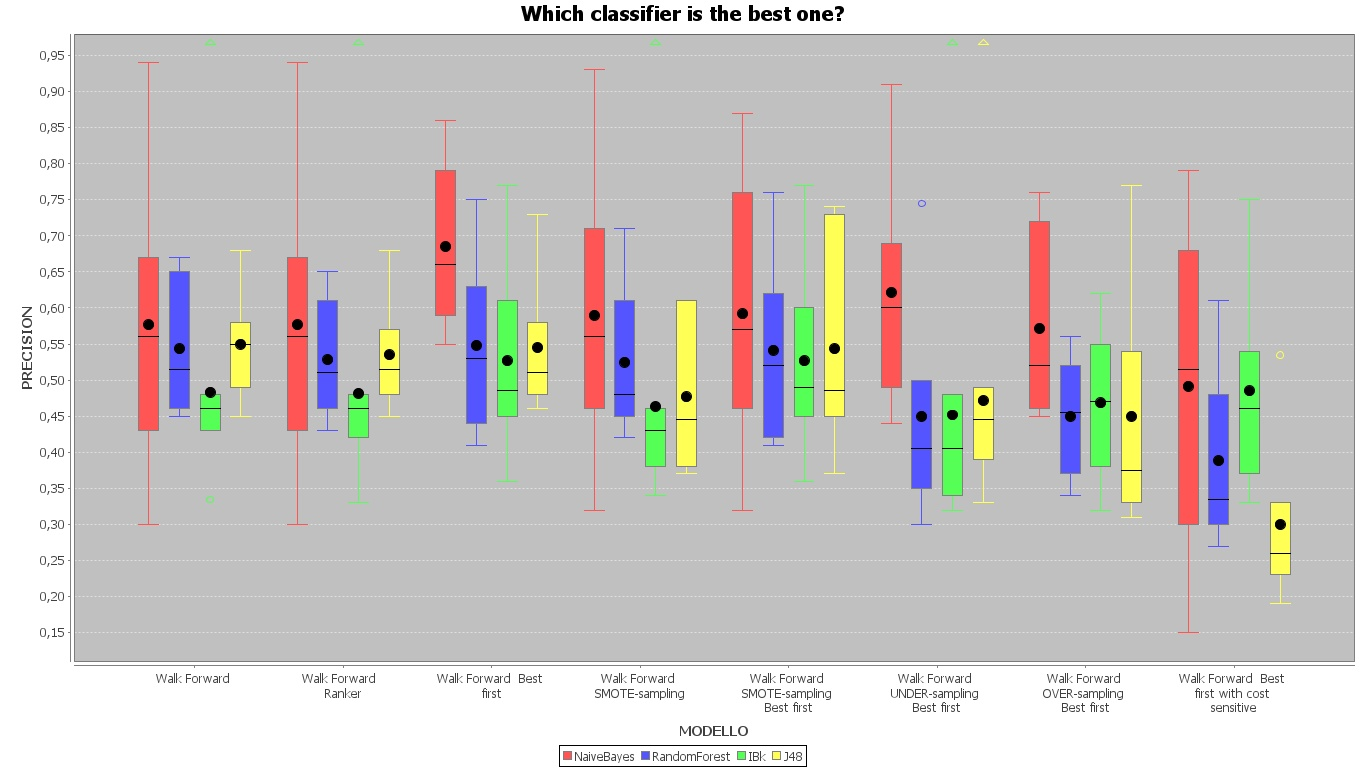
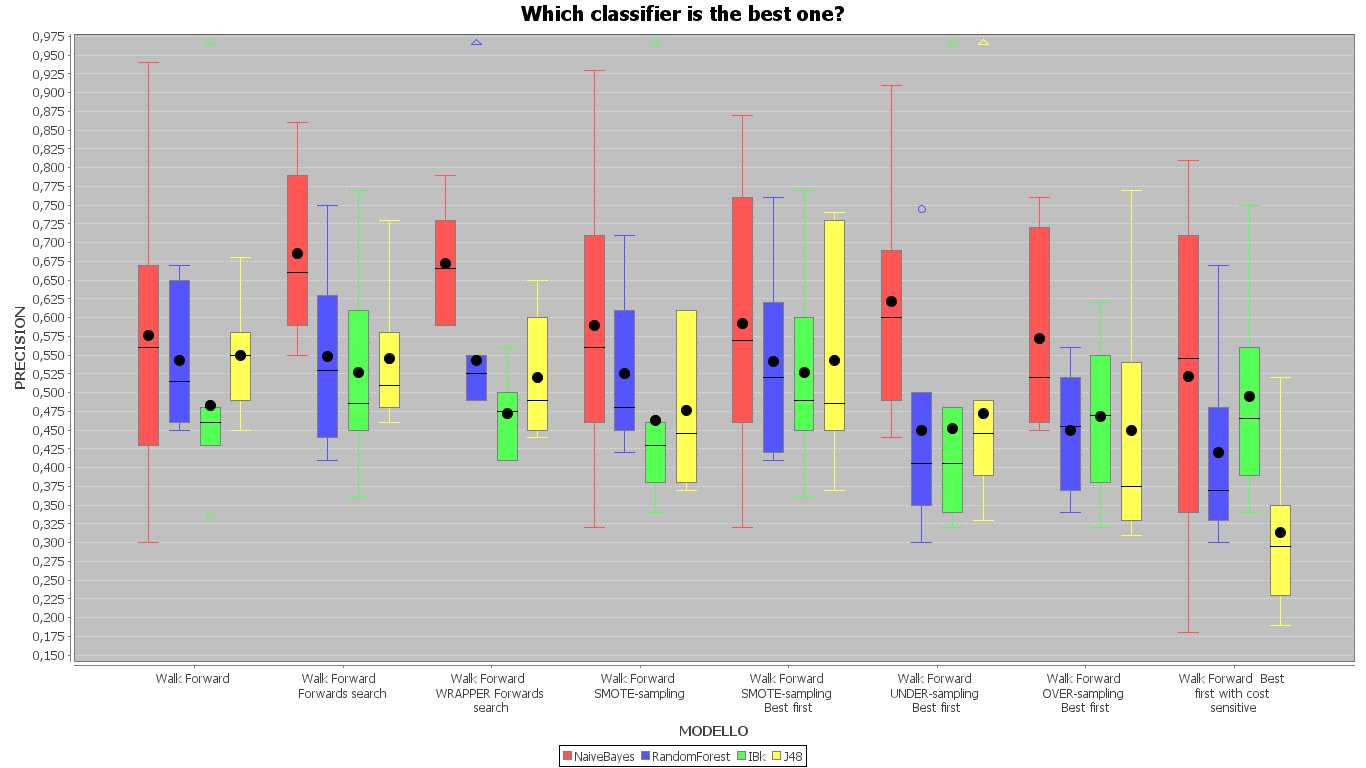
Added WRAPPER per forwards search

diff --git a/Deliverable2/src/main/java/org/learning/bookkeeperlearning/controller/FeatureSelectionDecorator.java b/Deliverable2/src/main/java/org/learning/bookkeeperlearning/controller/FeatureSelectionDecorator.java
@@ -24,7 +24,7 @@ public class FeatureSelectionDecorator extends Decorator {
     }
 
     private void initBackwardsSearch(AttributeSelection filter){
-        ASEvaluation subsetEval = new CfsSubsetEval();
+        CfsSubsetEval subsetEval = new CfsSubsetEval();
         GreedyStepwise search = new GreedyStepwise();
 
         //set the algorithm to search backward
@@ -38,12 +38,12 @@ public class FeatureSelectionDecorator extends Decorator {
 
     }
 
-    private void initForwardsSearch(AttributeSelection filter){
-        ASEvaluation subsetEval = new CfsSubsetEval();
+    private void initWrapperForwardsSearch(AbstractClassifier classifier, AttributeSelection filter){
+        ClassifierSubsetEval subsetEval = new ClassifierSubsetEval();
+
+        subsetEval.setClassifier(classifier); //<-- WRAPPER
 
         GreedyStepwise search = new GreedyStepwise();
-
-        search.setSearchBackwards(false);
 
         filter.setEvaluator(subsetEval);
 
@@ -51,8 +51,20 @@ public class FeatureSelectionDecorator extends Decorator {
 
     }
 
+    private void initForwardsSearch(AttributeSelection filter){
+        CfsSubsetEval subsetEval = new CfsSubsetEval();
+
+        GreedyStepwise search = new GreedyStepwise();
+
+        filter.setEvaluator(subsetEval);
+
+        filter.setSearch(search);
+
+    }
+
+
     private void initBestFirst (AttributeSelection filter){
-        ASEvaluation subsetEval = new CfsSubsetEval();
+        CfsSubsetEval subsetEval = new CfsSubsetEval();
 
         BestFirst search= new BestFirst();
 
@@ -63,7 +75,7 @@ public class FeatureSelectionDecorator extends Decorator {
     }
 
     private void initCorrEvaluator (AttributeSelection filter){
-        ASEvaluation correlationAttributeEval = new CorrelationAttributeEval();
+        CorrelationAttributeEval correlationAttributeEval = new CorrelationAttributeEval();
 
         Ranker search= new Ranker();
 
@@ -83,13 +95,16 @@ public class FeatureSelectionDecorator extends Decorator {
             //create evaluator and search algorithm objects
 
 
-            if (value.equals(FeatureSelectionEnum.BACKWARDS_SEARCH)) {
+            if (value.equals(FeatureSelectionEnum.FILTER_BACKWARDS_SEARCH)) {
                 initBackwardsSearch(filter);
                 modelEntity.setTypeFeatureSelection("Backwards search");
-            } else if (value.equals(FeatureSelectionEnum.FORWARDS_SEARCH)) {
+            } else if (value.equals(FeatureSelectionEnum.WRAPPER_FORWARDS_SEARCH)) {
+                initWrapperForwardsSearch(classifier, filter);
+                modelEntity.setTypeFeatureSelection("WRAPPER Forwards search");
+            }else if (value.equals(FeatureSelectionEnum.FILTER_FORWARDS_SEARCH)){
                 initForwardsSearch(filter);
                 modelEntity.setTypeFeatureSelection("Forwards search");
-            } else if (value.equals(FeatureSelectionEnum.BEST_FIRST)) {
+            }else if (value.equals(FeatureSelectionEnum.BEST_FIRST)) {
                 initBestFirst(filter);
                 modelEntity.setTypeFeatureSelection("Best first");
             } else{

diff --git a/Deliverable2/src/main/java/org/learning/bookkeeperlearning/WekaLearning.java b/Deliverable2/src/main/java/org/learning/bookkeeperlearning/WekaLearning.java
@@ -22,14 +22,14 @@ public class WekaLearning {
          * Non provo tutte le combinazioni di feature selection, balancing e cost sesnsitive.
          *
          * 1.1: Applico walk forward standard, senza "decorazioni" aggiuntive.
-         * 1.2: Applico walk forward con ranker. <-- Filters
-         * 1.3: Applico walk forward con best first. <-- Wrappers
-         * 1.4: Applico walk forward con SMOTE SAMPLING.
-         * 1.5: Applico walk forward con SMOTE SAMPLING e feature selection (BEST_FIRST).
-         * 1.6: Applico walk forward con UNDER SAMPLING e feature selection (BEST_FIRST).
-         * 1.7: Applico walk forward con OVER SAMPLING e feature selection (BEST_FIRST).
-         * 1.8: Applico walk forward con feature selection (BEST FIRST) e miss classifications cost.
-         * 1.9: Realizzo un box chart categorico basato sulla metrica di accuratezza.
+         * 1.2: Applico walk forward con forward search + Wrapper.
+         * 1.4: Applico walk forward con forward search.
+         * 1.5: Applico walk forward con SMOTE SAMPLING.
+         * 1.6: Applico walk forward con SMOTE SAMPLING e feature selection (BEST_FIRST).
+         * 1.7: Applico walk forward con UNDER SAMPLING e feature selection (BEST_FIRST).
+         * 1.8: Applico walk forward con OVER SAMPLING e feature selection (BEST_FIRST).
+         * 1.9: Applico walk forward con feature selection (BEST FIRST) e miss classifications cost.
+         * 1.10: Realizzo un box chart categorico basato sulla metrica di accuratezza.
          *
          *
          * */
@@ -42,11 +42,12 @@ public class WekaLearning {
 
         List<LearningModelEntity> res = new ArrayList<>(val.validation());
 
-        val = new FeatureSelectionDecorator(new WalkForwardStd(source1,source2), FeatureSelectionEnum.RANKER);
+        val = new FeatureSelectionDecorator(new WalkForwardStd(source1,source2), FeatureSelectionEnum.FILTER_FORWARDS_SEARCH);
 
         res.addAll(val.validation());
 
-        val = new FeatureSelectionDecorator(new WalkForwardStd(source1,source2), FeatureSelectionEnum.BEST_FIRST);
+
+        val = new FeatureSelectionDecorator(new WalkForwardStd(source1,source2), FeatureSelectionEnum.WRAPPER_FORWARDS_SEARCH);
 
         res.addAll(val.validation());
 
@@ -58,7 +59,7 @@ public class WekaLearning {
 
         res.addAll(val.validation());
 
-        val = new FeatureSelectionDecorator(new BalancingDecorator(new WalkForwardStd(source1,source2),BalancingEnum.UNDER_SAMPLING),FeatureSelectionEnum.BEST_FIRST);
+        val = new FeatureSelectionDecorator(new BalancingDecorator(new WalkForwardStd(source1,source2), BalancingEnum.UNDER_SAMPLING),FeatureSelectionEnum.BEST_FIRST);
 
         res.addAll(val.validation());
 
@@ -82,10 +83,6 @@ public class WekaLearning {
         val.saveChart(val.showChart(res, MetricsEnum.PRECISION),"PRECISION_All");
 
         val.saveChart(val.showChart(res, MetricsEnum.RECALL),"RECALL_All");
-
-
-
-
 
     }
 

diff --git a/Deliverable2/src/main/java/org/learning/bookkeeperlearning/controller/CostSensitiveDecorator.java b/Deliverable2/src/main/java/org/learning/bookkeeperlearning/controller/CostSensitiveDecorator.java
@@ -37,6 +37,8 @@ public class CostSensitiveDecorator extends Decorator{
 
             costSensitiveClassifier.setCostMatrix(createCostMatrix());
 
+            costSensitiveClassifier.setMinimizeExpectedCost(true);
+
             Evaluation eval = this.getValidation().buildModel(costSensitiveClassifier, training, testing, modelEntity);
 
             if(eval != null) eval.evaluateModel(costSensitiveClassifier, testing);

diff --git a/Deliverable2/src/main/java/org/learning/bookkeeperlearning/utility/FeatureSelectionEnum.java b/Deliverable2/src/main/java/org/learning/bookkeeperlearning/utility/FeatureSelectionEnum.java
@@ -1,8 +1,10 @@
 package org.learning.bookkeeperlearning.utility;
 
 public enum FeatureSelectionEnum {
-    BACKWARDS_SEARCH,
-    FORWARDS_SEARCH,
+    FILTER_BACKWARDS_SEARCH,
+    WRAPPER_FORWARDS_SEARCH,
+    FILTER_FORWARDS_SEARCH,
     BEST_FIRST,
     RANKER
 }
+

diff --git a/README.md b/README.md
@@ -1,1 +1,4 @@
 # BookkeeperLearning
+
+![build-workflow](https://github.com/ludovico99/BookkeeperLearning/actions/workflows/maven.yml/badge.svg)
+[![Code Smells](https://sonarcloud.io/api/project_badges/measure?project=ludovico99_BookkeeperLearning&metric=code_smells)](https://sonarcloud.io/project/overview?id=ludovico99_BookkeeperLearning)
